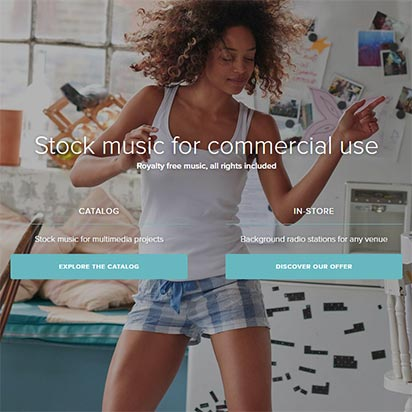
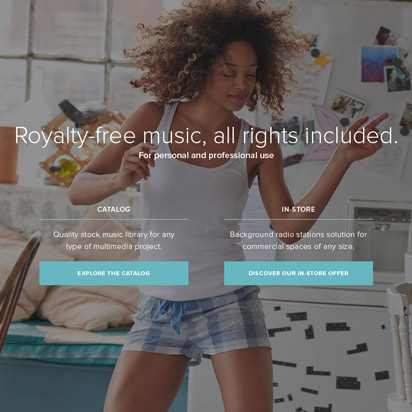
content update

diff --git a/index.html b/index.html
@@ -338,6 +338,21 @@
 							<div><div>
 
 								<picture>
+									  <source srcset="images/work-views/jamendo-licensing-redesign/jamendo-licensing-redesign-06-556.jpg" media="(min-width: 1920px)">
+									  <source srcset="images/work-views/jamendo-licensing-redesign/jamendo-licensing-redesign-06-476.jpg" media="(min-width: 1680px)">
+									  <source srcset="images/work-views/jamendo-licensing-redesign/jamendo-licensing-redesign-06-412.jpg" media="(min-width: 1366px)">
+									  <img class="crisp" srcset="images/work-views/jamendo-licensing-redesign/jamendo-licensing-redesign-06-300.jpg" alt="Jamendo Licensing subscription page">
+								</picture>
+
+							</div></div>
+
+						</li>		
+
+						<li class="view">
+
+							<div><div>
+
+								<picture>
 									  <source srcset="images/work-views/jamendo-licensing-redesign/jamendo-licensing-redesign-04-556.jpg" media="(min-width: 1920px)">
 									  <source srcset="images/work-views/jamendo-licensing-redesign/jamendo-licensing-redesign-04-476.jpg" media="(min-width: 1680px)">
 									  <source srcset="images/work-views/jamendo-licensing-redesign/jamendo-licensing-redesign-04-412.jpg" media="(min-width: 1366px)">
@@ -368,25 +383,10 @@
 							<div><div>
 
 								<picture>
-									  <source srcset="images/work-views/jamendo-licensing-redesign/jamendo-licensing-redesign-06-556.jpg" media="(min-width: 1920px)">
-									  <source srcset="images/work-views/jamendo-licensing-redesign/jamendo-licensing-redesign-06-476.jpg" media="(min-width: 1680px)">
-									  <source srcset="images/work-views/jamendo-licensing-redesign/jamendo-licensing-redesign-06-412.jpg" media="(min-width: 1366px)">
-									  <img class="crisp" srcset="images/work-views/jamendo-licensing-redesign/jamendo-licensing-redesign-06-300.jpg" alt="Jamendo Licensing subscription page">
-								</picture>
-
-							</div></div>
-
-						</li>		
-
-						<li class="view">
-
-							<div><div>
-
-								<picture>
-									  <source srcset="images/work-views/jamendo-licensing-redesign/jamendo-licensing-redesign-05-556.jpg" media="(min-width: 1920px)">
-									  <source srcset="images/work-views/jamendo-licensing-redesign/jamendo-licensing-redesign-05-476.jpg" media="(min-width: 1680px)">
-									  <source srcset="images/work-views/jamendo-licensing-redesign/jamendo-licensing-redesign-05-412.jpg" media="(min-width: 1366px)">
-									  <img class="crisp" srcset="images/work-views/jamendo-licensing-redesign/jamendo-licensing-redesign-05-300.jpg" alt="Jamendo Licensing pricing page">
+									  <source srcset="images/work-views/jamendo-licensing-redesign/jamendo-licensing-redesign-05-556.gif" media="(min-width: 1920px)">
+									  <source srcset="images/work-views/jamendo-licensing-redesign/jamendo-licensing-redesign-05-476.gif" media="(min-width: 1680px)">
+									  <source srcset="images/work-views/jamendo-licensing-redesign/jamendo-licensing-redesign-05-412.gif" media="(min-width: 1366px)">
+									  <img class="crisp" srcset="images/work-views/jamendo-licensing-redesign/jamendo-licensing-redesign-05-300.gif" alt="Jamendo Licensing pricing page">
 								</picture>
 
 							</div></div>

diff --git a/jamendo-licensing-redesign.html b/jamendo-licensing-redesign.html
@@ -70,7 +70,7 @@
 				<li class="screenshot">
 				
 					<div>
-						<img src="images/work-views/jamendo-licensing-redesign/screenshots/jamendo-licensing-redesign-screenshot-05.jpg" alt="Jamendo Licensing redesign screenshot 05">
+						<img src="images/work-views/jamendo-licensing-redesign/screenshots/jamendo-licensing-redesign-screenshot-07.jpg" alt="Jamendo Licensing redesign screenshot 07">
 					</div>
 				
 				</li>
@@ -79,6 +79,14 @@
 				
 					<div>
 						<img src="images/work-views/jamendo-licensing-redesign/screenshots/jamendo-licensing-redesign-screenshot-06.jpg" alt="Jamendo Licensing redesign screenshot 06">
+					</div>
+				
+				</li>
+			
+				<li class="screenshot">
+				
+					<div>
+						<img src="images/work-views/jamendo-licensing-redesign/screenshots/jamendo-licensing-redesign-screenshot-05.jpg" alt="Jamendo Licensing redesign screenshot 05">
 					</div>
 				
 				</li>
